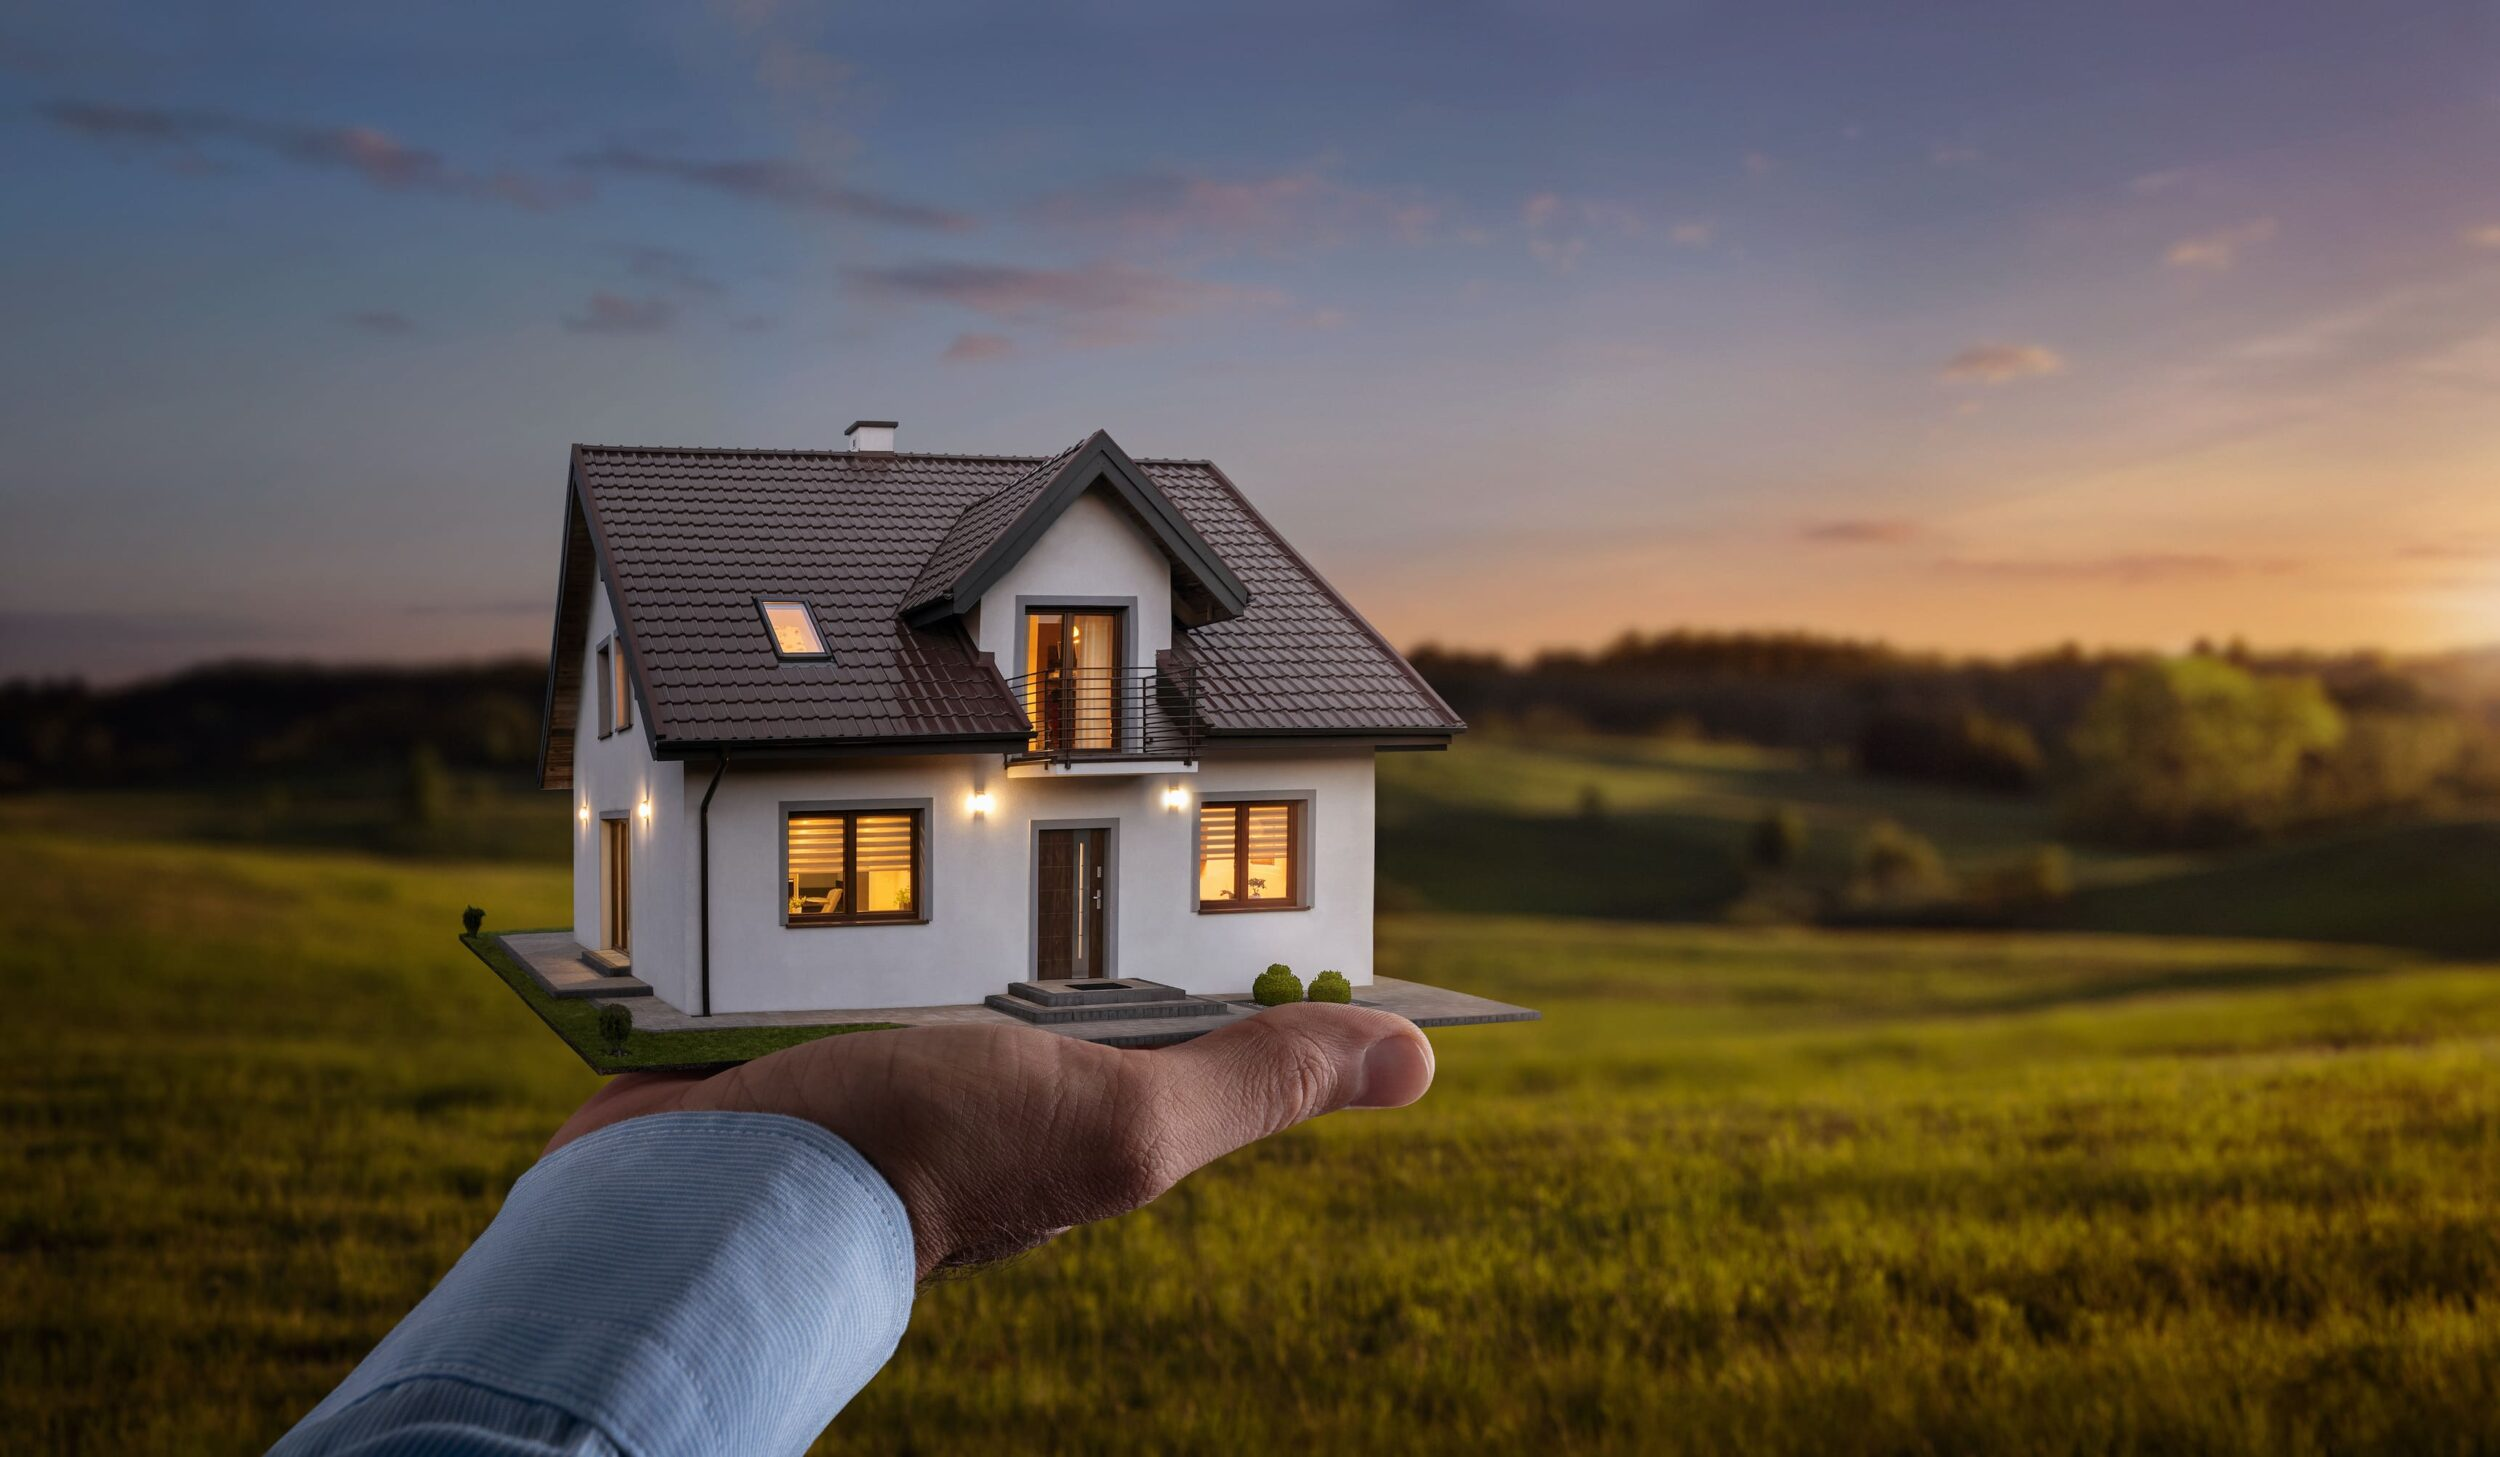
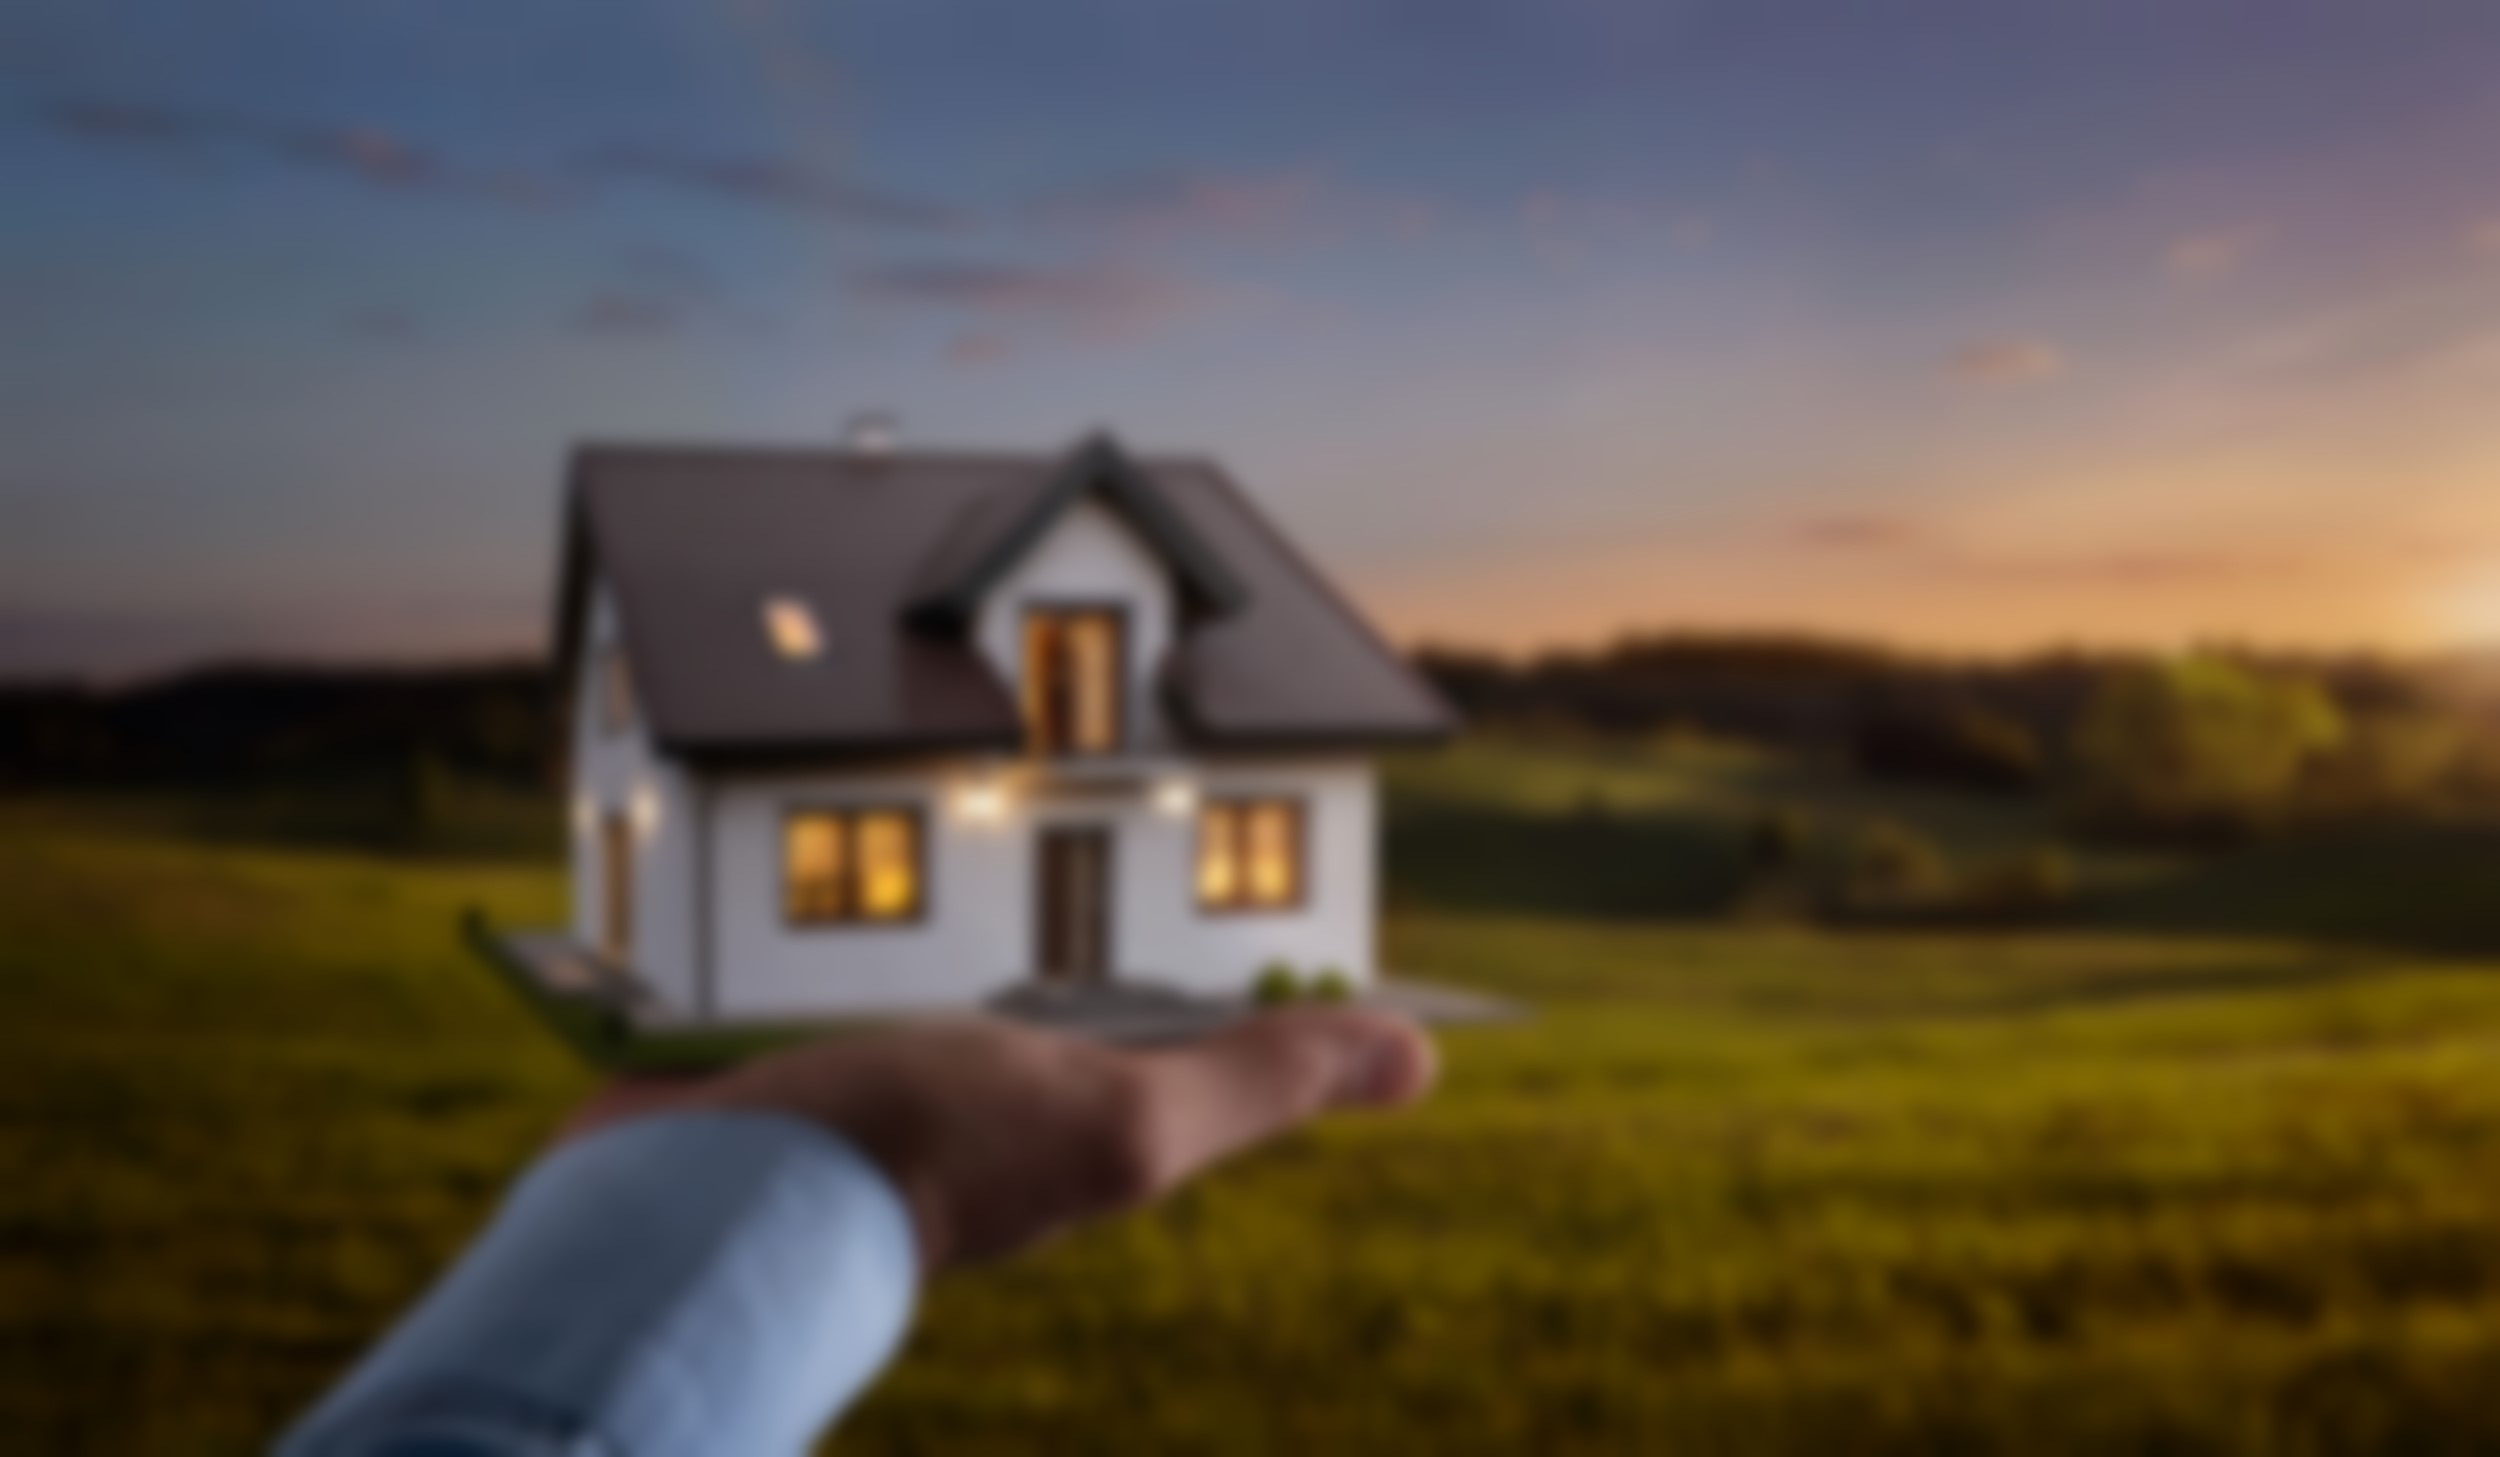
updates

diff --git a/css-files/index-content.css b/css-files/index-content.css
@@ -3,7 +3,6 @@ body {
 }
 
 .top-pic {
-  background-color: black;
   margin-top: 0px;
   padding: 0px;
 }
@@ -14,7 +13,6 @@ body {
   margin: 0px;
   padding: 0px;
   object-fit: cover;
-  filter: blur(5px);
 }
 
 .top-pic-content {
